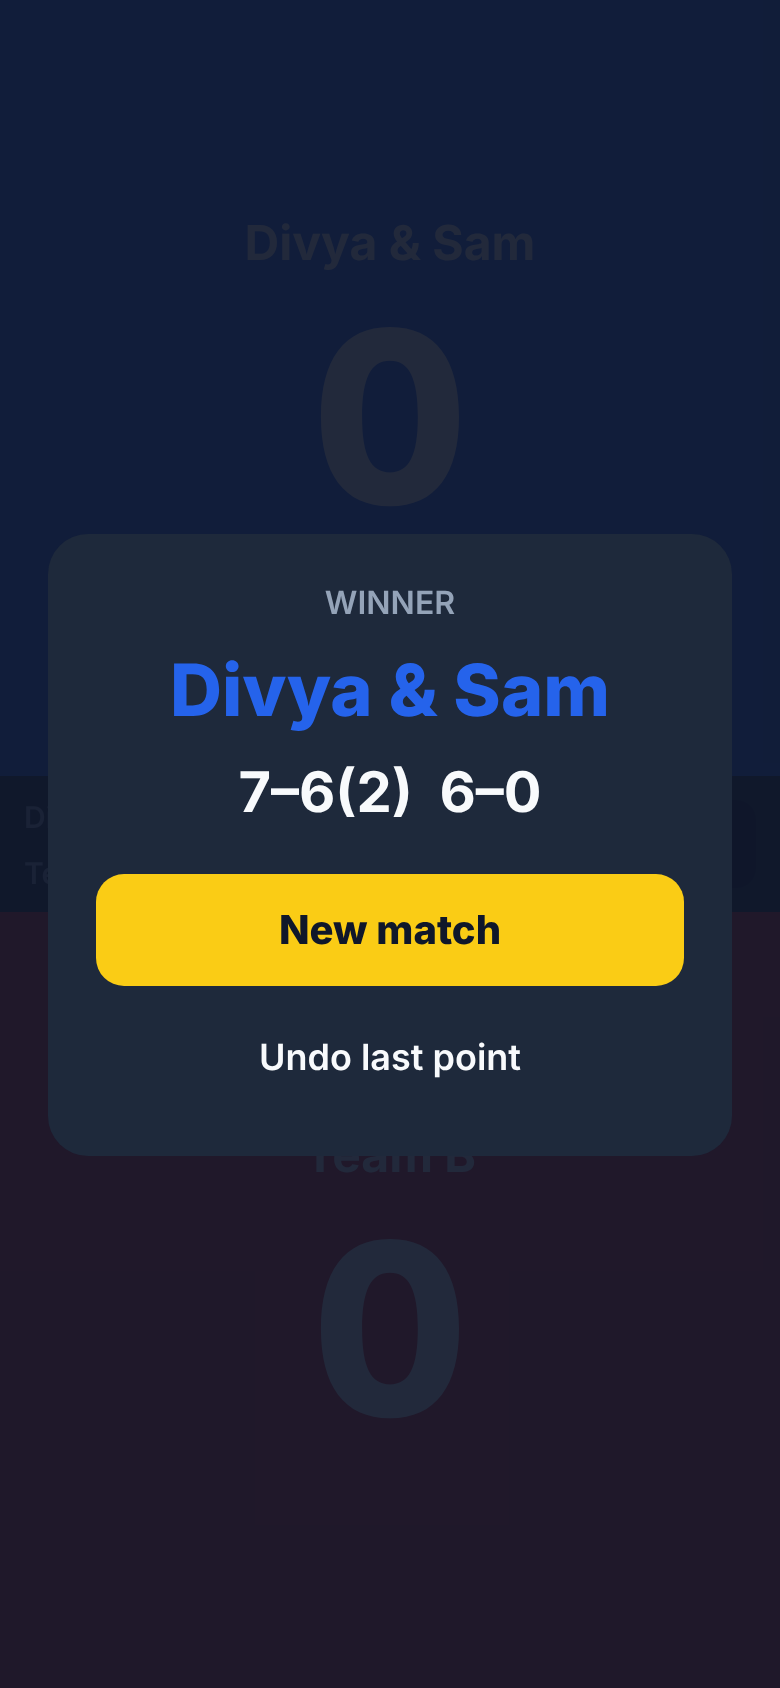
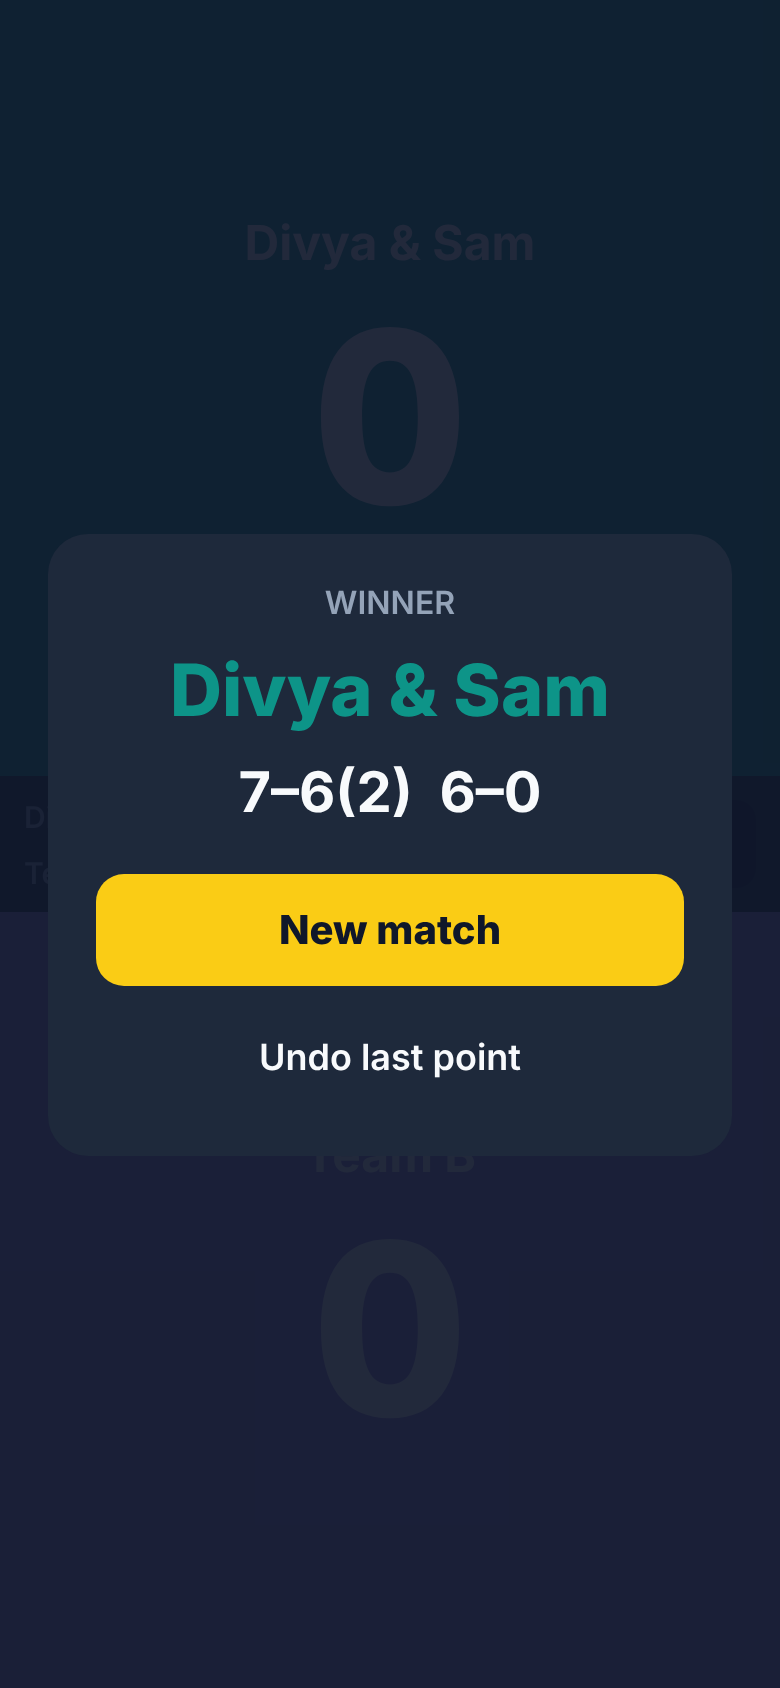
Change team colors to teal and lilac
Claude-Session: https://claude.ai/code/session_018tx2WN6JPeC3qmtnQeahTC

Changed region(s): [[0.2154, 0.3697, 0.5538, 0.4313], [0.5846, 0.3697, 0.8, 0.4313]]

diff --git a/src/screens/theme.ts b/src/screens/theme.ts
@@ -6,6 +6,6 @@ export const colors = {
   text: '#F8FAFC',
   muted: '#94A3B8',
   accent: '#FACC15',
-  team: { A: '#2563EB', B: '#DC2626' } as Record<Team, string>,
-  teamPressed: { A: '#1D4ED8', B: '#B91C1C' } as Record<Team, string>,
+  team: { A: '#0D9488', B: '#9B7BD4' } as Record<Team, string>,
+  teamPressed: { A: '#0F766E', B: '#8262BF' } as Record<Team, string>,
 };

diff --git a/README.md b/README.md
@@ -75,7 +75,7 @@ Everything from here on happens on the iPhone.
 
 ### 2. Score each point
 
-The screen is split in two: the top half (blue) is the first team and the bottom half (red) is
+The screen is split in two: the top half (teal) is the first team and the bottom half (lilac) is
 the second team.
 
 - **After each rally, tap anywhere on the half of the team that won the point.** The whole half
